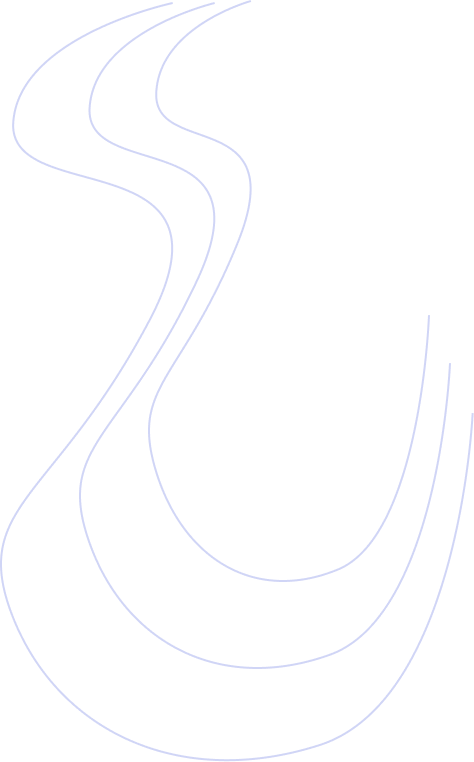
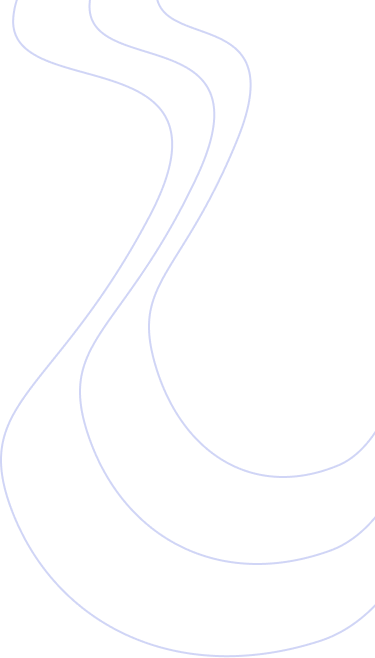
Rechange switch toggle html stucture

diff --git a/css/style.css b/css/style.css
@@ -43,6 +43,7 @@ body{
   font-family:'Montserrat',"Arial", sans-serif;
   background-color: var(--main-page-bg-color);
   color: var(--main-text-color);
+  overflow-x: hidden;
 }
 
 li{
@@ -87,8 +88,8 @@ img{
   flex-grow: 1;
   background-image: url("../images/main-bg-image.png"), url("../images/main-bg-image-bottom.png");
   background-repeat: no-repeat, no-repeat;
-  background-size: 470px 750px, 470px 750px;
-  background-position: top -250px right -10%, bottom -250px left -20%;
+  background-size: 350px,350px;
+  background-position:top right, bottom left;
 }
 
 .site-header {
@@ -101,46 +102,81 @@ img{
   line-height: 39px;
 }
 
-.price-option {
+.pricing-switch {
   display: flex;
   align-items: center;
   justify-content: center;
+  padding-top: 40px;
+  padding-bottom: 64px;
 }
 
-.annually-price,.monthly-price {
-  opacity: 0.5;
-}
-
-.switch-toglle {
-  margin-right: 24px;
-  margin-left: 24px;
-}
-
-.switch {
+.switch{
   position: relative;
   display: inline-block;
+  margin-left: 24px;
+  margin-right: 24px;
+  padding: 4px;
   width: 56px;
   height: 32px;
-  border-radius: 32px;
+  background: linear-gradient(135deg, #A2A7F0 0%, #696EDD 100%);
+  border-radius: 16px;
   cursor: pointer;
-  background-color: var(--main-card-bg-color);
+}
+.switch-control-annualy{
+  position: absolute;
+  top: 0;
+  left: 0;
+  width: 50%;
+  height: 100%;
+  cursor: pointer;
+}
+.switch-control-monthly{
+  position: absolute;
+  top: 0;
+  right: 0;
+  width: 50%;
+  height: 100%;
+  cursor: pointer;
+}
+.switch-label {
+  cursor: pointer;
+  opacity: 0.5;
+  transition: opacity 0.4s ease;
+}
+
+.switch-label:hover{
+  opacity: 1;
 }
 
 .slider{
+  display: inline-block;
   position: absolute;
-  content: "";
-  right: 4px;
-  top: 4px;
+  cursor: pointer;
   width: 24px;
   height: 24px;
-  background-color: var(--main-text-light-color);
+  border-radius:50%;
+  background-color: var(--secondary-card-bg-color);
   transition: transform 0.4s ease;
-  border-radius: 50%;
 }
 
-.switch-check:checked + .slider{
+.switch-input-annual:checked + .slider{
   transform: translateX(-24px);
 }
+
+
+
+
+
+
+
+
+
+
+
+
+
+
+
 
 /* BACKGROUND-IMAGE FOR RETINA SCREENS */
 @media

diff --git a/index.html b/index.html
@@ -1,5 +1,6 @@
 <!DOCTYPE html>
 <html lang="en">
+
 <head>
   <meta charset="UTF-8">
   <meta http-equiv="X-UA-Compatible" content="IE=edge">
@@ -10,27 +11,36 @@
   <link rel="stylesheet" href="./css/normalize.css">
   <link rel="stylesheet" href="./css/style.css">
 </head>
+
 <body>
   <main class="main-content">
     <header class="site-header">
-        <div class="container">
+      <div class="container">
         <h1 class="site-header-heading">Our Pricing</h1>
-        <div class="price-option">
-          <p class="annually-price">Annually</p>
-          <div class="switch-toglle">
-            <label  class="switch">
-              <input class="switch-check visually-hidden" type="checkbox">
-              <span class="slider"></span>
-            </label>
+
+        <form class="pricing-switch" action="https://echo.htmlacademy.ru">
+          <!-- Switch -->
+          <label class="switch-label" for="annual-payment-radio">Annually</label>
+          <div class="switch">
+            <!-- Switch-radios -->
+            <label class="switch-control-annualy" for="annual-payment-radio" ></label>
+            <input class="switch-input-annual visually-hidden" type="radio" name="payment-period" value="annual" id="annual-payment-radio" >
+
+            <span class="slider"></span>
+            <label class="switch-control-monthly" for="monthly-payment-radio" ></label>
+            <input class="switch-input-monthly visually-hidden" type="radio" name="payment-period" value="annual" id="monthly-payment-radio">
+
           </div>
-          <p class="monthly-price">Monthly</p>
-        </div>
+          <label class="switch-label" for="monthly-payment-radio">Monthly</label>
+        </form>
       </div>
-      </header>
+    </header>
+
   </main>
 
 
 
   <script src="./js/main.js"></script>
 </body>
+
 </html>
